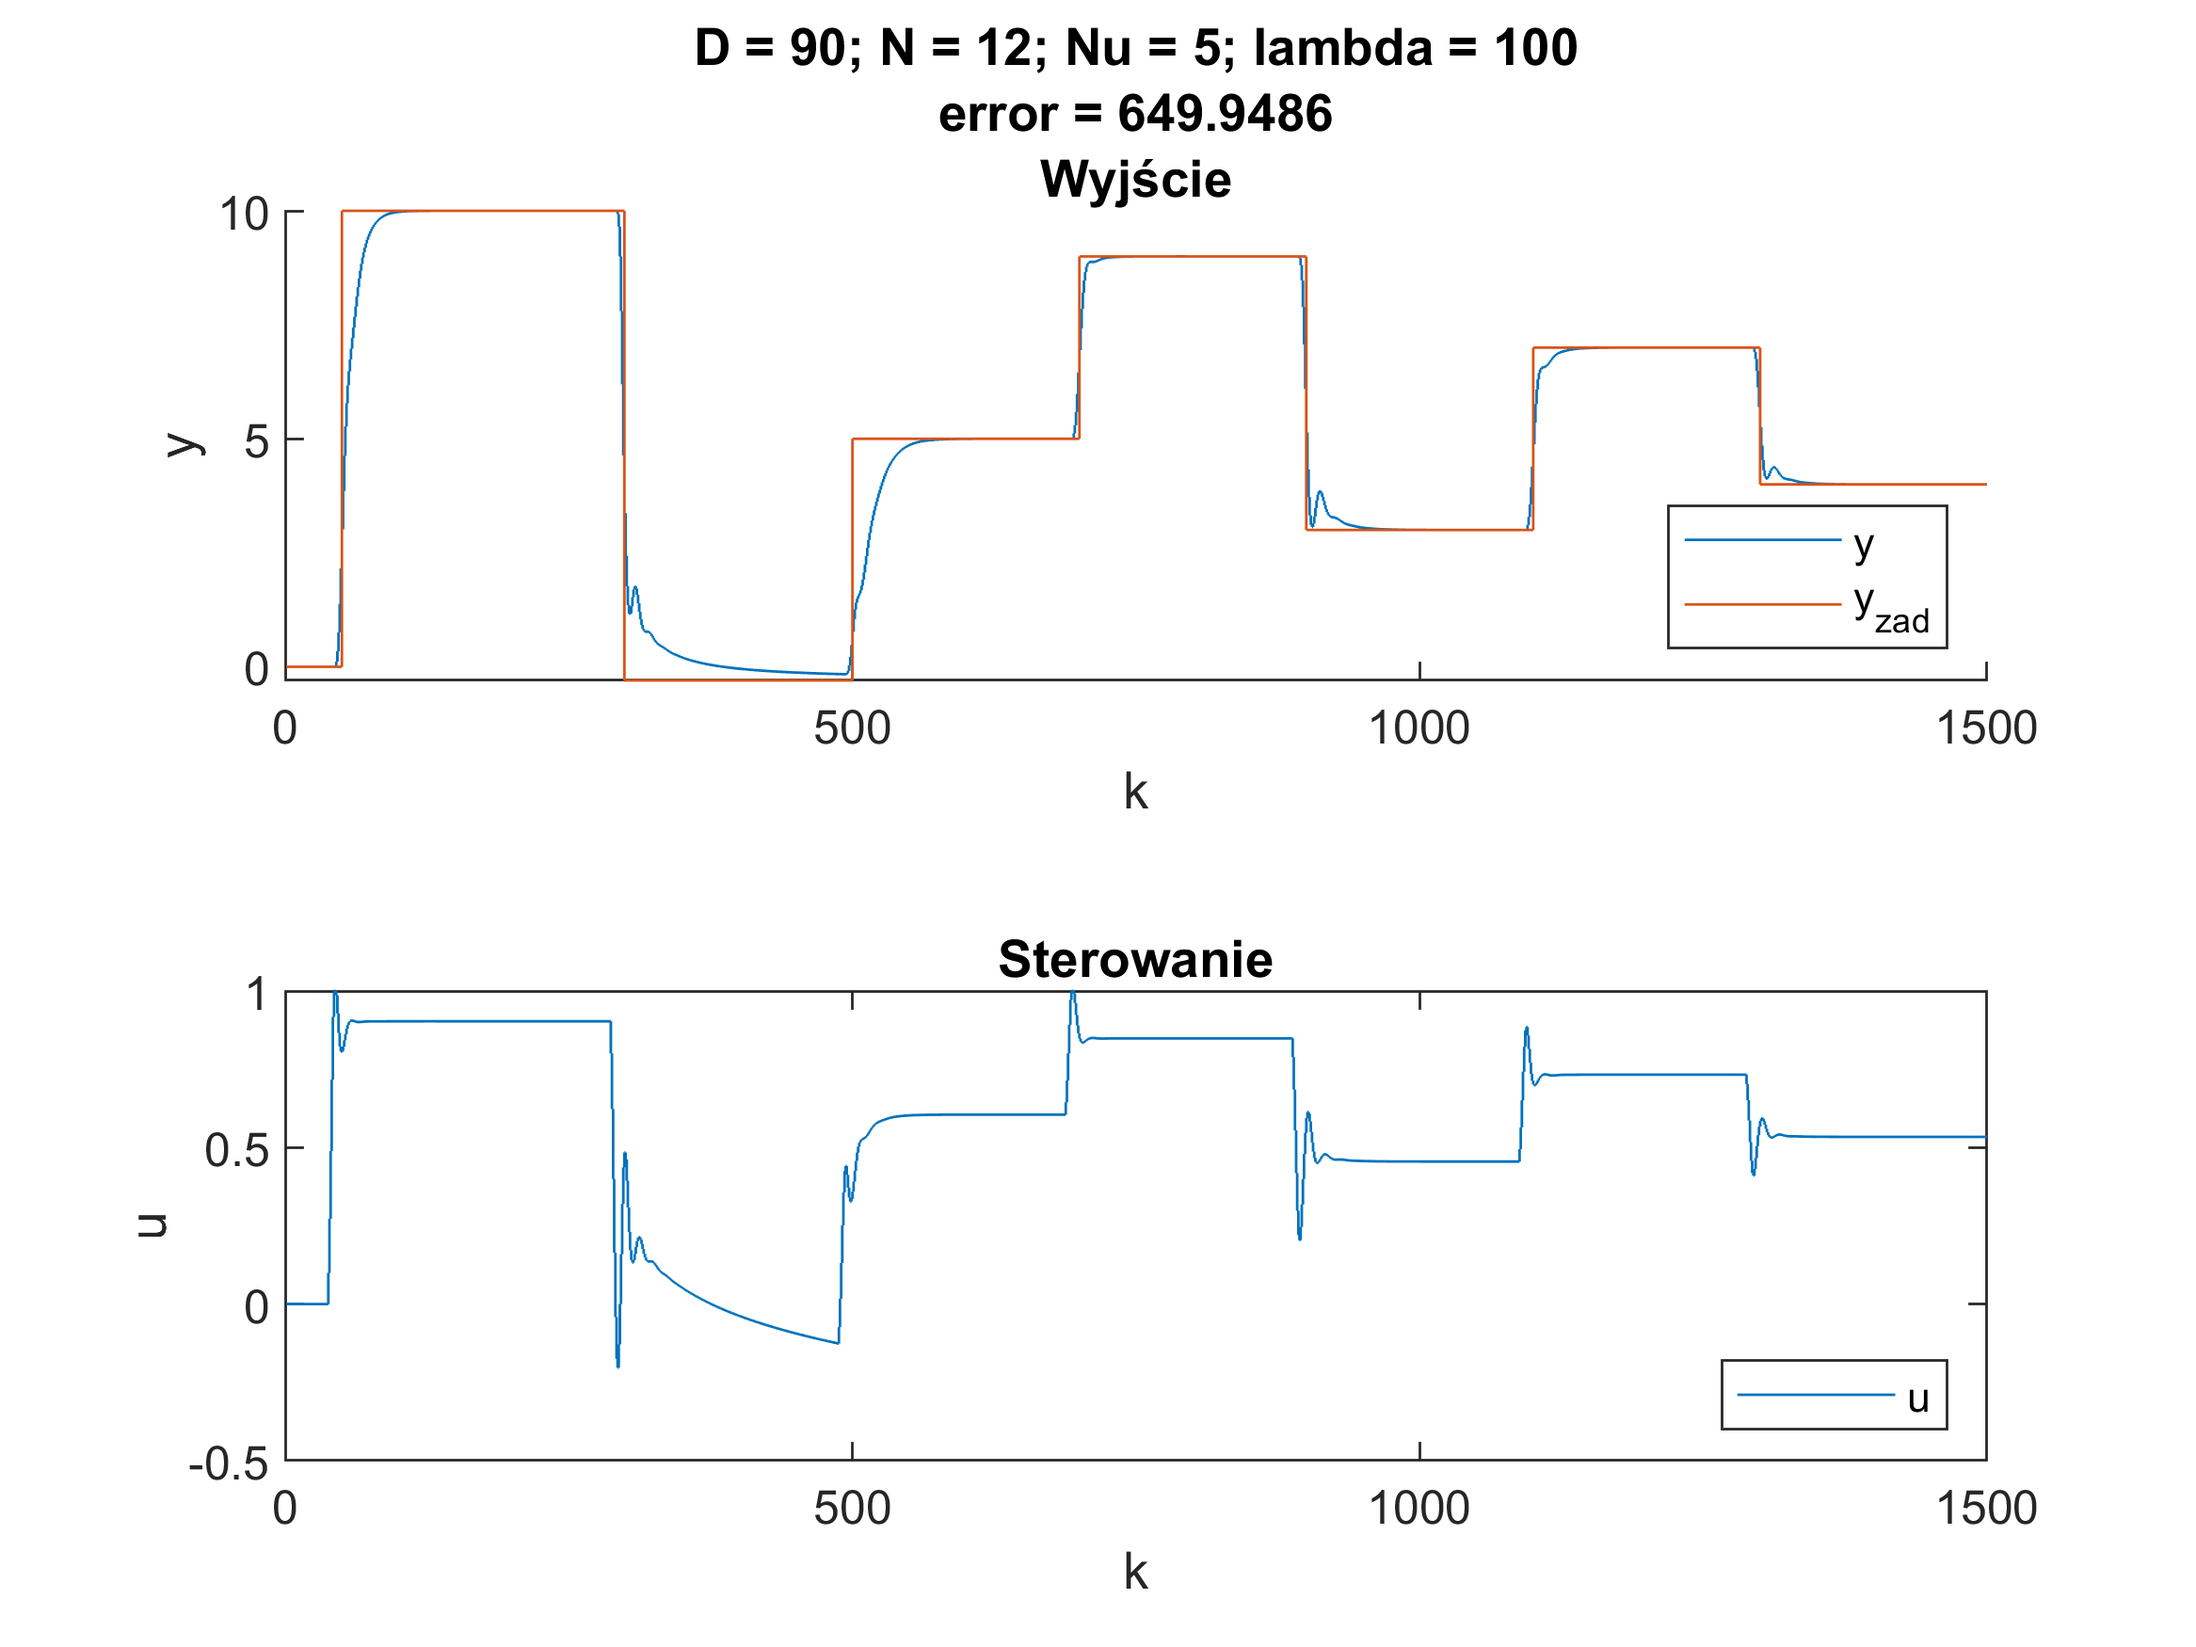
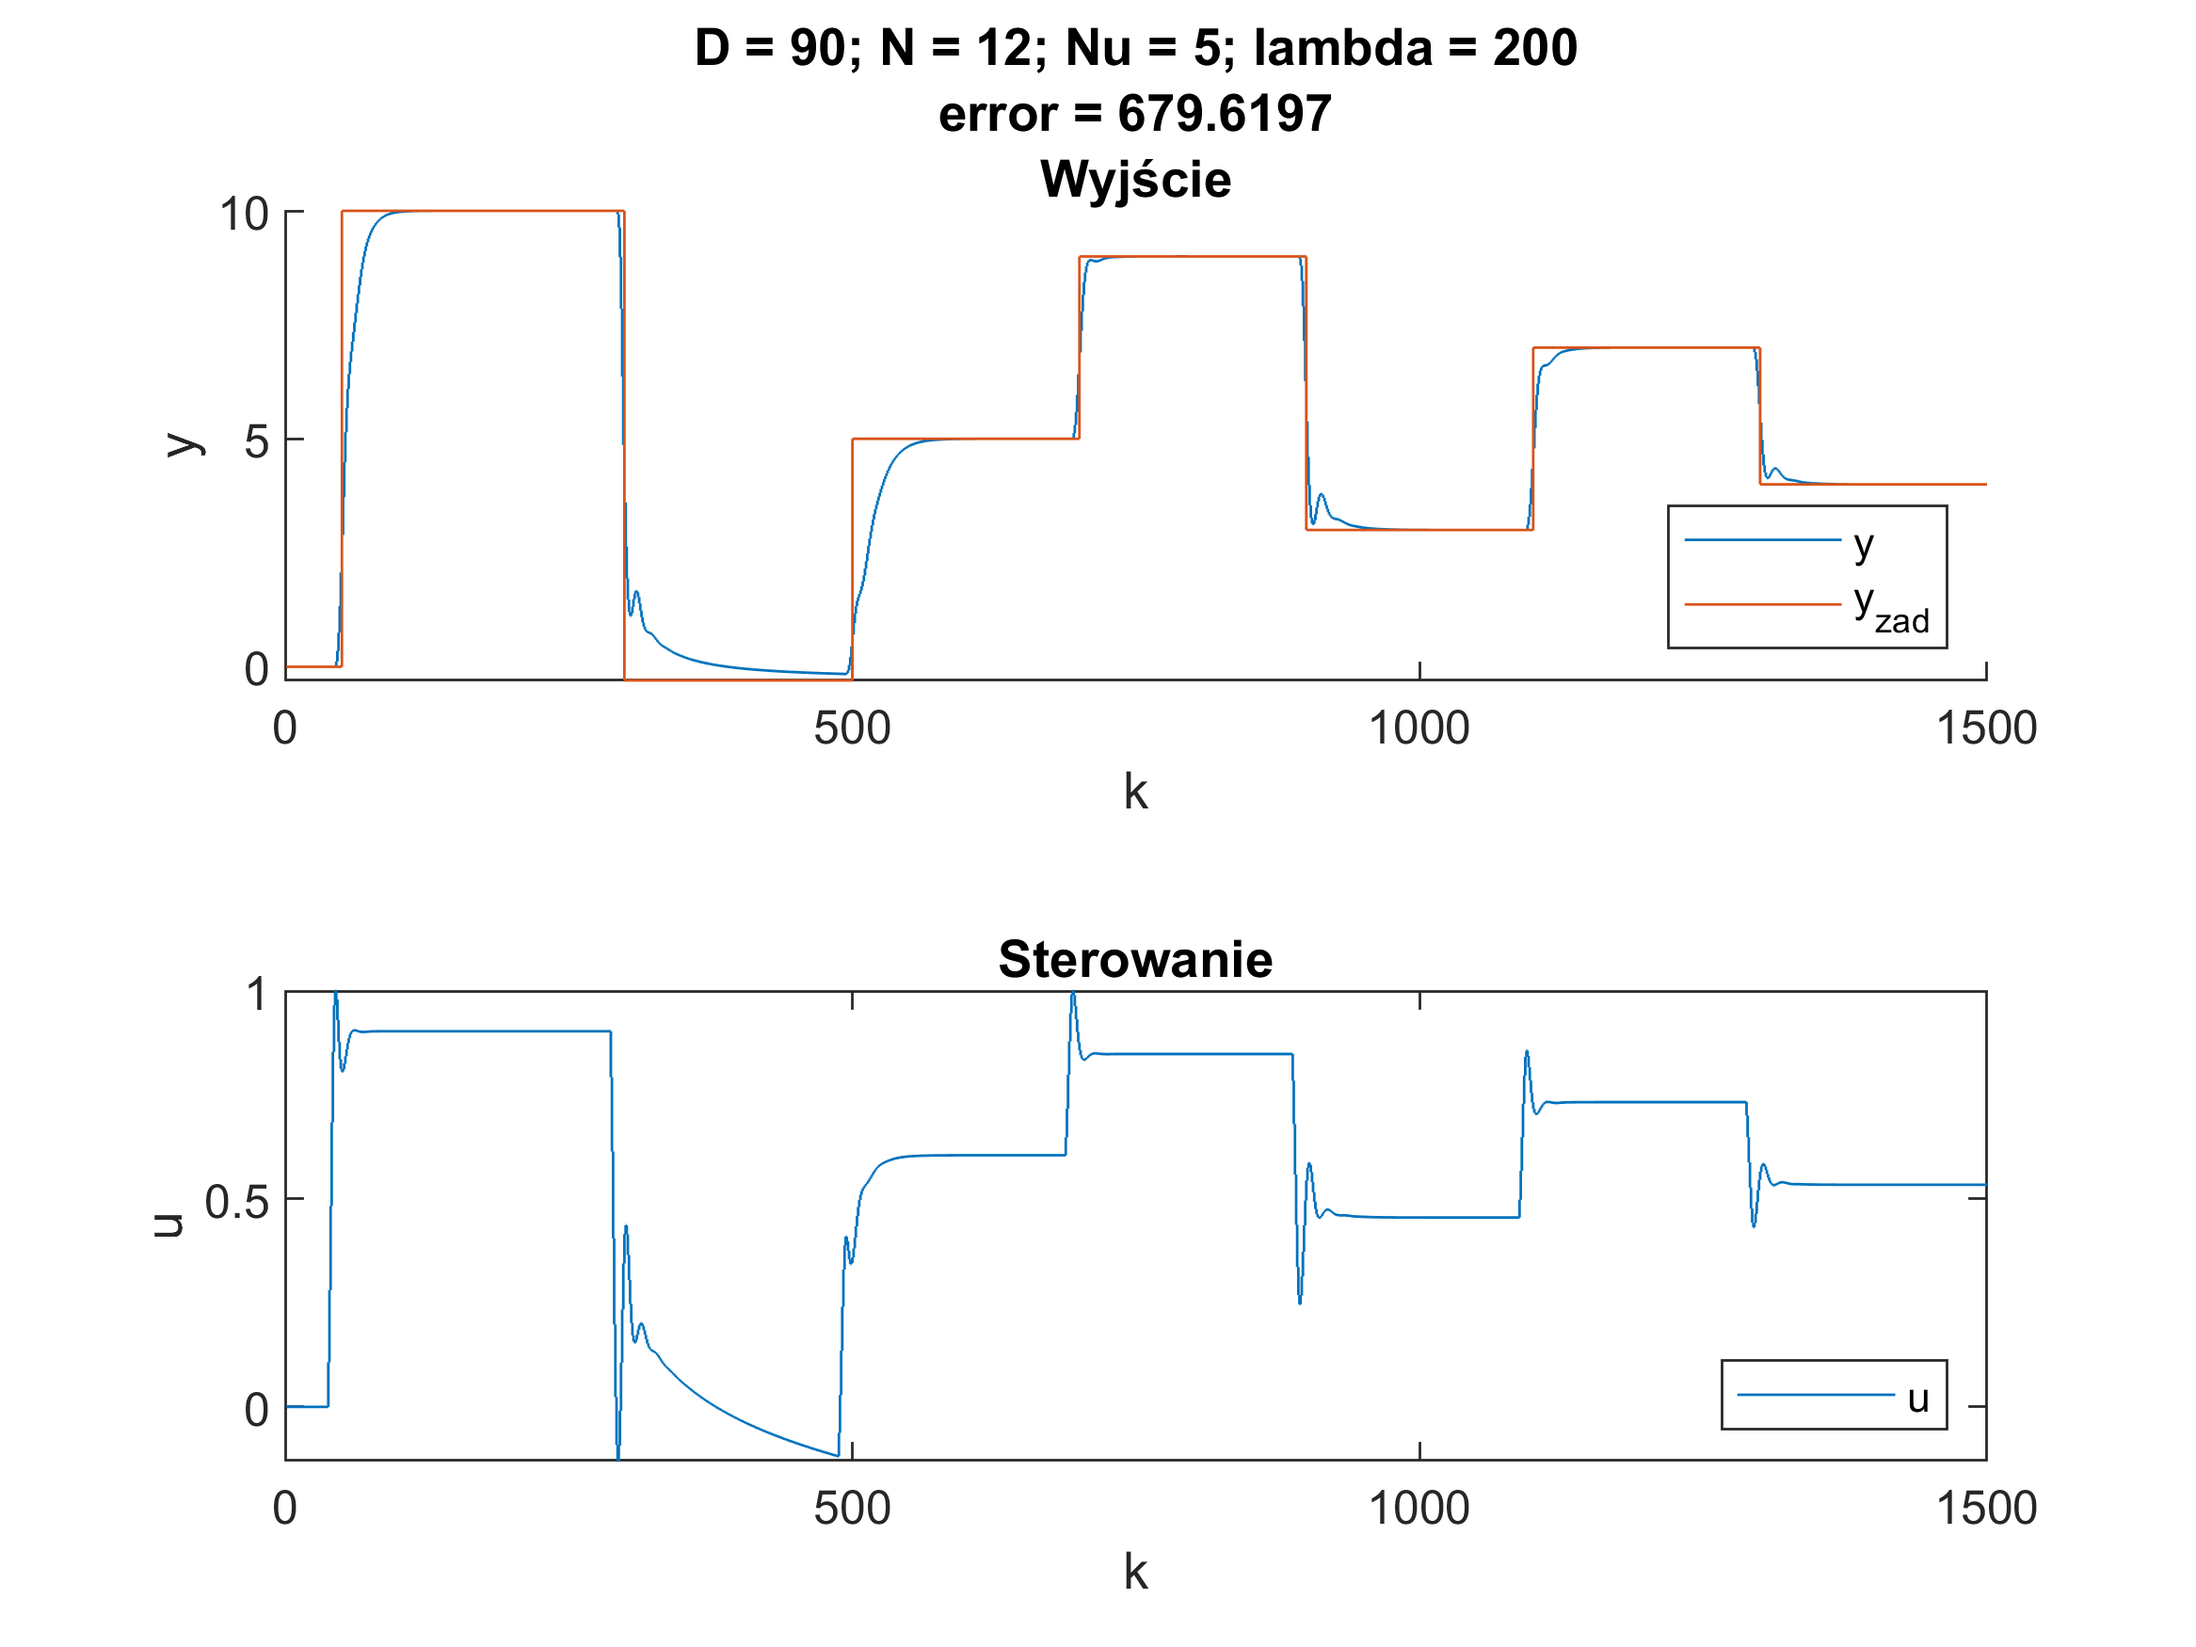
implementation changes in fdmc; started implementing fpid

diff --git a/HOME_PROJECT/ZAD4_FUZZY_PID/ZAD3_PID.m b/HOME_PROJECT/ZAD4_FUZZY_PID/ZAD3_PID.m
@@ -1,0 +1,105 @@
+clear all;
+%% Konfiguracja zbiorów rozmytych
+
+% ilosc zbiorów rozmytych
+fuzzy_interrvals_cnt = 5; % F_I_cnt > 2
+
+% niestandardowe przedziały przynależności [domyslnie równe]
+duty_points = []; % <- wpisac co sie chce z zakresu 0-10 + zdefiniować kształt funkcji przynależnosci i size(duty_points) == fuzzy_intervals_cnt
+
+% definicja kształtu funkcji przynależnosci dla automatycznie generowanych punktów pracy
+
+if fuzzy_interrvals_cnt == 2
+    bell_shape = [2 4];
+elseif fuzzy_interrvals_cnt == 3
+    bell_shape = [1.5 3];
+elseif fuzzy_interrvals_cnt == 4
+    bell_shape = [1 6];
+elseif fuzzy_interrvals_cnt == 5
+    bell_shape = [0.8 3];
+end
+
+
+%% Parametry reg. PID
+
+% ilosc elem w wektorze = fuzz_inter_cnt
+k = []; 
+Ti = []; 
+Td = []; 
+Tp = 0.5; 
+
+
+r0 = k*(1+(Tp/(2*Ti))+(Td/Tp));
+r1 = k*((Tp/(2*Ti))-((2*Td)/Tp)-1);
+r2 = (k*Td)/Tp;
+
+
+%% inicjalizacja potrzebnych macierzy
+u(1:k_step1-1) = 0; % 
+y(1:k_step1-1) = 0; % 
+e(1:k_step1-1) = 0;
+
+%% Momenty skoków yzad
+k_step1 = 50; 
+k_step2 = 300;
+k_step3 = 500;
+k_step4 = 700;
+k_step5 = 900;
+k_step6 = 1100;
+k_step7 = 1300;
+steps = 1500;
+
+yzad(1:k_step1-1) = 0; yzad(k_step1:k_step2) = 10;  % yzad z  przedziału  <-0.3, 11.5> bo ograniczenia na u 
+yzad(k_step2-1:k_step3) = -.3; yzad(k_step3:k_step4-1) = 5;
+yzad(k_step4:k_step5-1) = 9; yzad(k_step5:k_step6-1) = 3;
+yzad(k_step6:k_step7-1) = 7; yzad(k_step7:steps) = 4;
+ 
+% yzad(1:k_step1-1) = 0; yzad(k_step1:steps) = 11;
+
+%% Pętla symulacji
+for k=12:steps
+
+    y(k) = symulacja_obiektu1y_p3(u(k-6), u(k-7), y(k-1), y(k-2));
+    e(k) = yzad(k) - y(k);
+    u(k) = r2*e(k-2) + r1*e(k-1) + r0*e(k) + u(k-1);
+
+    if u(k) <= -1
+        u(k) = -1;
+    
+    elseif u(k) >= 1
+        u(k) = 1;
+
+    end
+
+end
+
+
+
+error_sum = (sum(e.^2));
+
+
+fig = figure;
+subplot(2,1,2)
+hold on
+stairs(u, "DisplayName","uPID"); 
+xlabel('k');
+ylabel('u'); 
+title('Sterowanie u(k)');
+
+hold off
+
+
+subplot(2,1,1)
+hold on
+stairs(yzad, "DisplayName","yzad"); 
+title('yzad, y'); 
+xlabel('k');
+ylabel('y, yzad'); 
+
+stairs(y,"DisplayName","yPID");
+legend('Location','southeast')
+title("Regulacja PID " + newline + "|errorsum|^2 =" + error_sum);
+hold off
+
+
+

diff --git a/HOME_PROJECT/ZAD4_FUZZY_DMC/ZAD4_FDMC.m b/HOME_PROJECT/ZAD4_FUZZY_DMC/ZAD4_FDMC.m
@@ -2,10 +2,9 @@ clear all;
 %% Konfiguracja zbiorów rozmytych
 
 % ilosc zbiorów rozmytych
-fuzzy_interrvals_cnt = 5; % F_I_cnt > 2
+fuzzy_interrvals_cnt = 2; % F_I_cnt > 2
 
-% niestandardowe przedziały przynależności [domyslnie równe]
-duty_points = []; % <- wpisac co sie chce z zakresu 0-10 + zdefiniować kształt funkcji przynależnosci
+duty_points = []; % <- wpisac co sie chce z zakresu 0-10 + zdefiniować kształt funkcji przynależnosci i size(duty_points) == fuzzy_intervals_cnt
 
 % definicja kształtu funkcji przynależnosci dla automatycznie generowanych punktów pracy
 
@@ -20,16 +19,15 @@ elseif fuzzy_interrvals_cnt == 5
 end
 
 
-
-
 %% Algorymt DMC
 
 % Parametry DMC
 D=90;
 N=12;
 Nu=5;
-lambda = 100;
-lambda = ones(1,fuzzy_interrvals_cnt) * lambda;
+lambda = 1;
+lambda = ones(1,fuzzy_interrvals_cnt) * lambda; % jednakowe lambdy dla wszystkich reg. lokalnych
+% lambda = []; % różne lambdy dla różnych reg. lokalnych
 
 %% pozyskanie pkt. pracy, odpowiedzi skokowych i macierzy dla kazdego reg. lokalnego
 
@@ -48,8 +46,10 @@ for o=1:fuzzy_interrvals_cnt
     y = gbellmf(x, [bell_shape(1,1) bell_shape(1,2) duty_points(1,o)]);
     plot(x, y)
     scatter(duty_points(1,o), 1);
-end
 
+end
+hold off
+title('Kształt funkcji przynależności')
 
 
 %% Skoki yzad
@@ -150,16 +150,17 @@ e = e.^2;
 error_sum = sum(e);
 
 %% Plots
+tit1 = strcat("Error = ", int2str(error_sum));
+tit2 = strcat("Liczba regulatorów lokalnych - ", int2str(fuzzy_interrvals_cnt));
 fig1=figure;
 subplot(2,1,1);
-% title = ("D = "+ D + "; N = " + N + "; Nu = " + Nu + "; lambda = " + lambda  + newline + "error = " + error_sum + newline + 'Wyjście')
 hold on
 stairs(y, "DisplayName","y")
 stairs(yzad, "DisplayName","y_z_a_d")
 xlabel('k')
 ylabel('y')
 legend('Location','southeast')
-title("D = "+ D + "; N = " + N + "; Nu = " + Nu + "; lambda = " + lambda  + newline + "error = " + error_sum + newline + 'Wyjście');
+title(tit2 + newline + tit1 + newline + 'Wyjście');
 hold off
 
 
@@ -169,7 +170,7 @@ xlabel('k')
 ylabel('u')
 legend('Location','southeast');
 title('Sterowanie');
-% 
+
 
 
 

diff --git a/HOME_PROJECT/ZAD4_FUZZY_DMC/sandbox.m b/HOME_PROJECT/ZAD4_FUZZY_DMC/sandbox.m
@@ -1,16 +1,14 @@
 x = -.3:0.1:11.5;
-bell_shape = [0.8 3];
-y = gbellmf(x,[bell_shape(1,1) bell_shape(1,2) 2.133]);
-y2 = gbellmf(x,[bell_shape(1,1) bell_shape(1,2) 4]);
-y3 = gbellmf(x,[bell_shape(1,1) bell_shape(1,2) 5.8]);
-y4 = gbellmf(x,[bell_shape(1,1) bell_shape(1,2) 7.633]);
-y5 = gbellmf(x,[bell_shape(1,1) bell_shape(1,2) 9.4557]);
+bell_shape = [1.6 2];
+y = gbellmf(x,[bell_shape(1,1) bell_shape(1,2) 0.15]);
+y2 = gbellmf(x,[bell_shape(1,1) bell_shape(1,2) 3.5]);
+y3 = gbellmf(x,[bell_shape(1,1) bell_shape(1,2) 7.75]);
+
 hold on
 plot(x,y)
 plot(x,y2)
 plot(x,y3)
-plot(x,y4)
-plot(x,y5)
+
 
 title('gbellmf, P=[2 4 6]')
 xlabel('x')

diff --git a/HOME_PROJECT/ZAD4_FUZZY_PID/GET_FPID_SETTINGS.m b/HOME_PROJECT/ZAD4_FUZZY_PID/GET_FPID_SETTINGS.m
@@ -1,0 +1,14 @@
+function [SETTINGS] = GET_FPID_SETTINGS(K, Ti, Td, Tp, fuzzy_interrvals_cnt)
+SETTINGS = cell(3, fuzzy_interrvals_cnt);
+
+for i=1:fuzzy_interrvals_cnt
+    r0 = K*(1+(Tp/(2*Ti))+(Td/Tp));
+    r1 = K*((Tp/(2*Ti))-((2*Td)/Tp)-1);
+    r2 = (K*Td)/Tp;
+
+    SETTINGS{1, fuzzy_interrvals_cnt} = r0;
+    SETTINGS{2, fuzzy_interrvals_cnt} = r1;
+    SETTINGS{3, fuzzy_interrvals_cnt} = r2;
+end
+
+end

diff --git a/HOME_PROJECT/ZAD4_FUZZY_DMC/GET_STEP_RESPONSES.m b/HOME_PROJECT/ZAD4_FUZZY_DMC/GET_STEP_RESPONSES.m
@@ -26,7 +26,7 @@ if isempty(duty_points)
     end
     DP = sort(DP);
 else
-    %%%%
+    DP = duty_points;
 end
 
 %% Wyznaczanie odpowiedzi skokowych w wyznaczonych/przekazanych punktach pracy ~ chyba działa, ale trzeba uważac

diff --git a/HOME_PROJECT/ZAD4_FUZZY_DMC/sanbox_dmc.m b/HOME_PROJECT/ZAD4_FUZZY_DMC/sanbox_dmc.m
@@ -25,7 +25,7 @@
 D=90;
 N=12;
 Nu=5;
-lambda = 100;
+lambda = 200;
 
 
 % % macierz M obiektu
